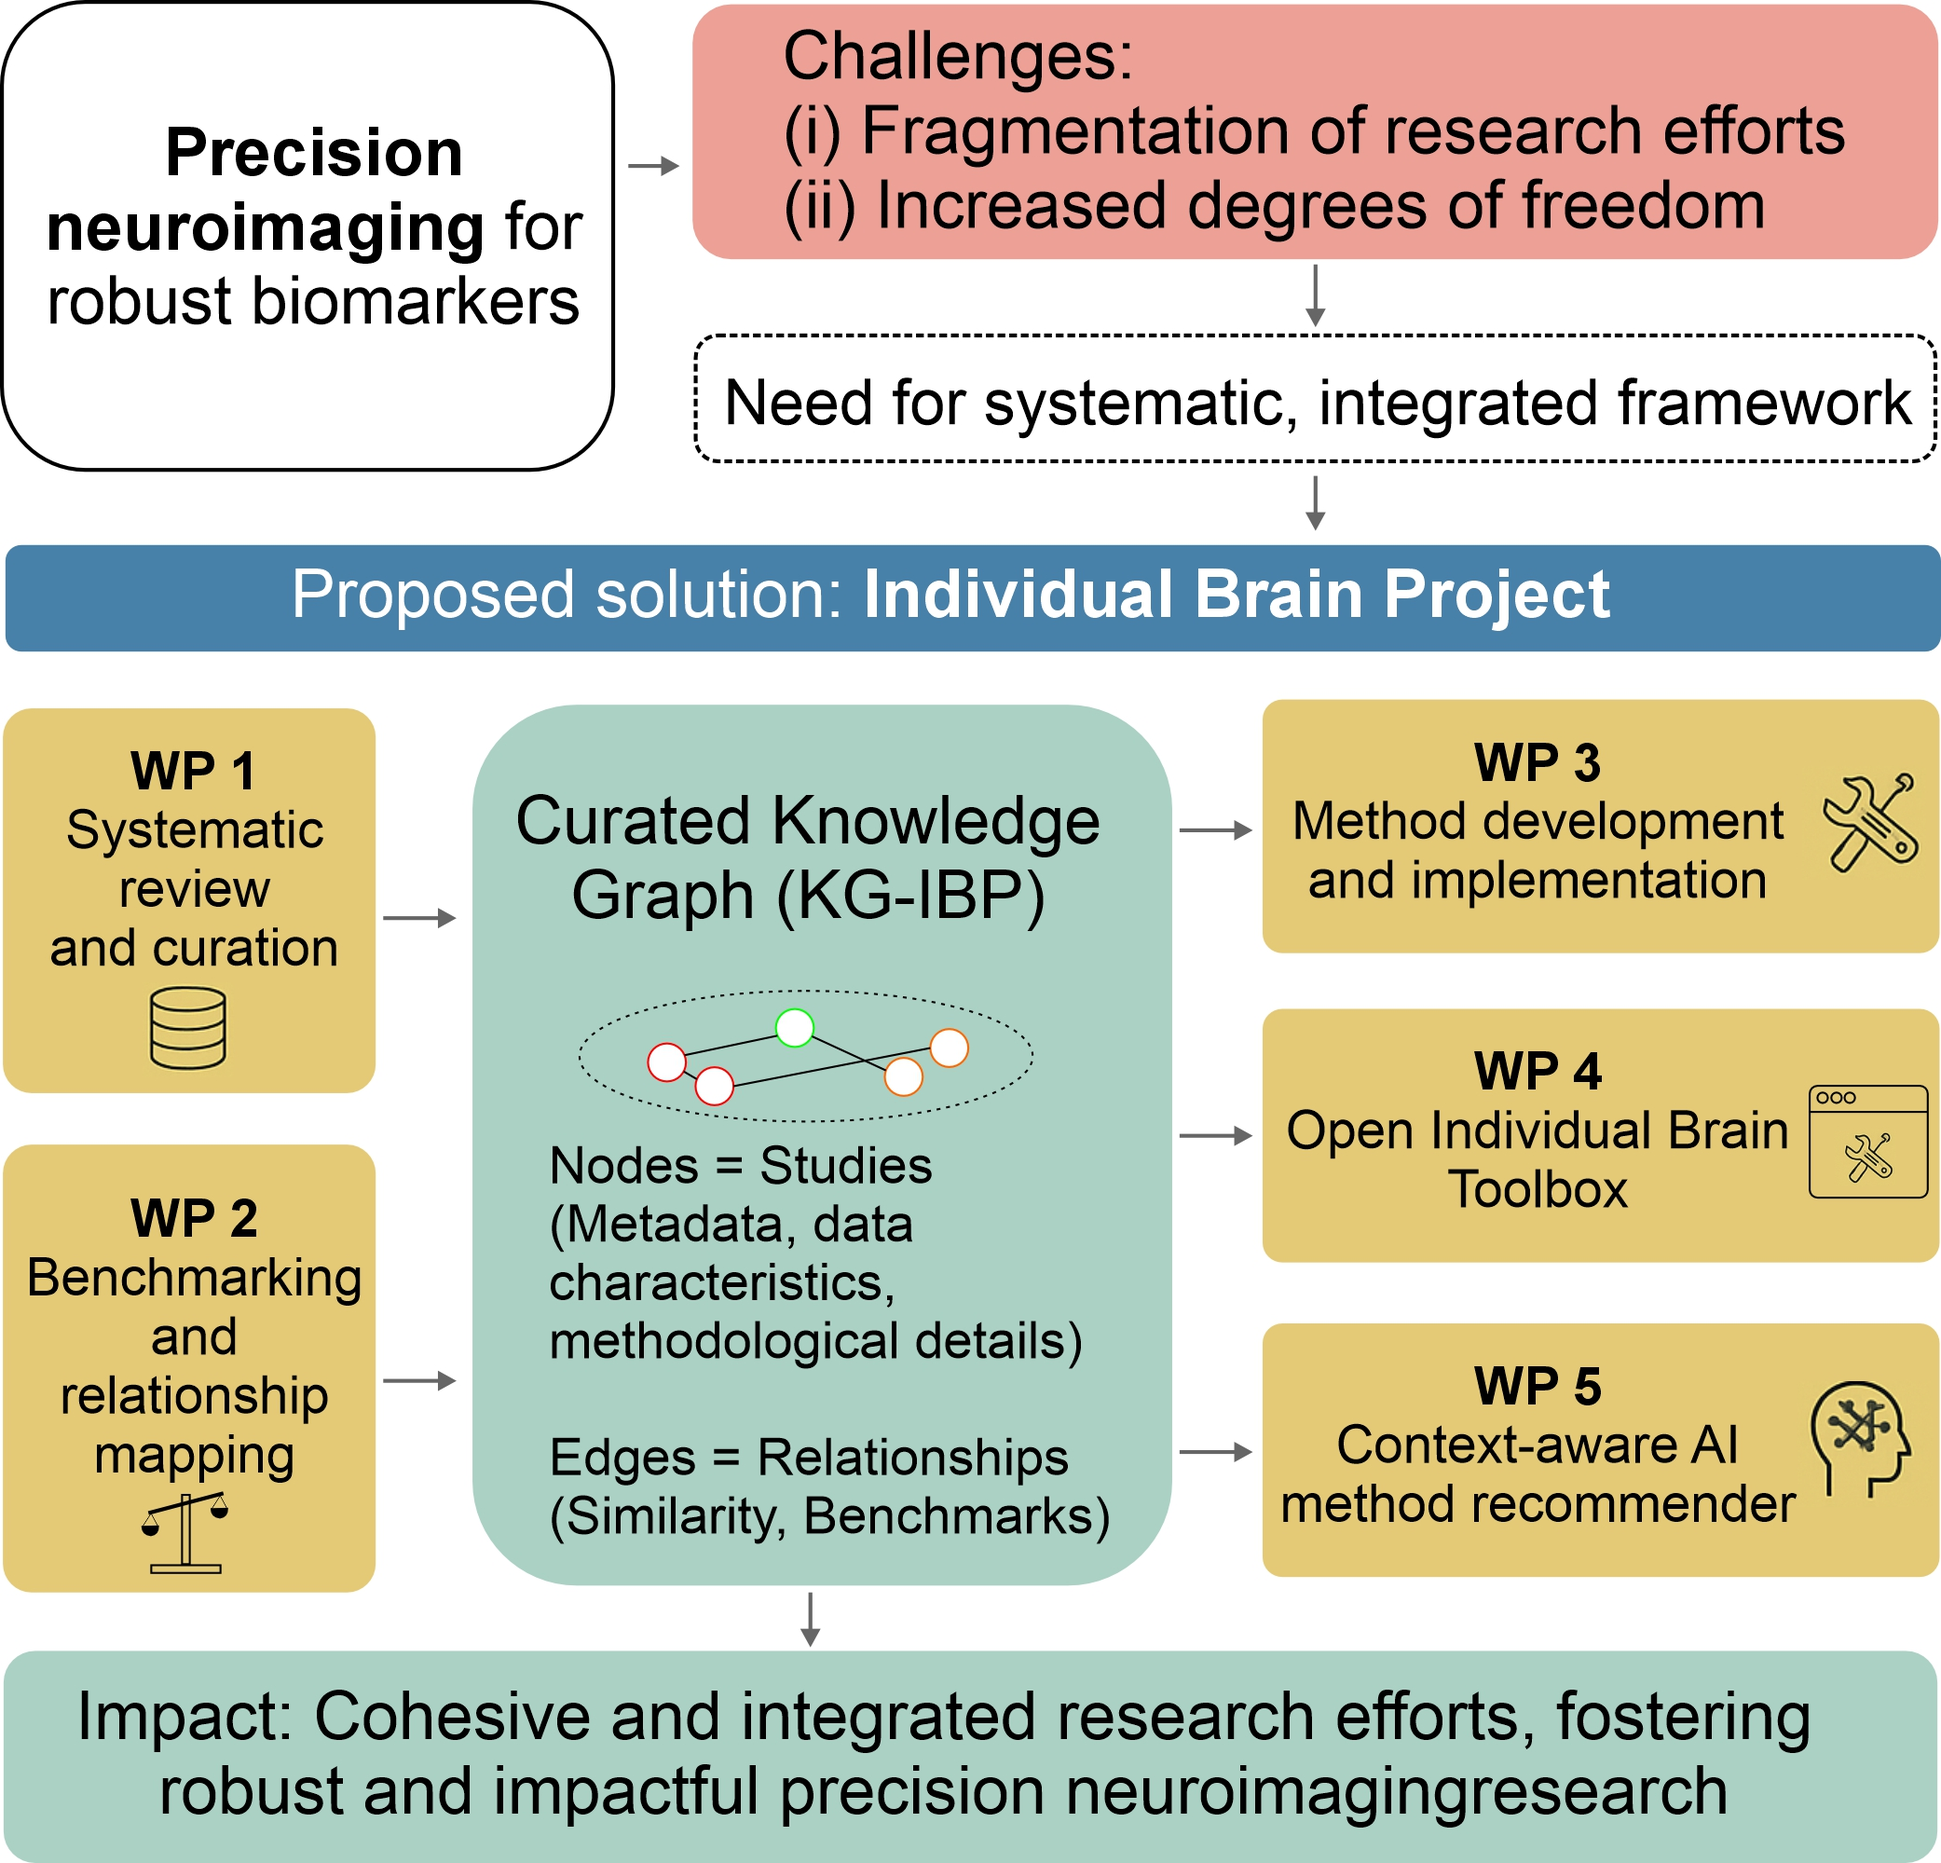
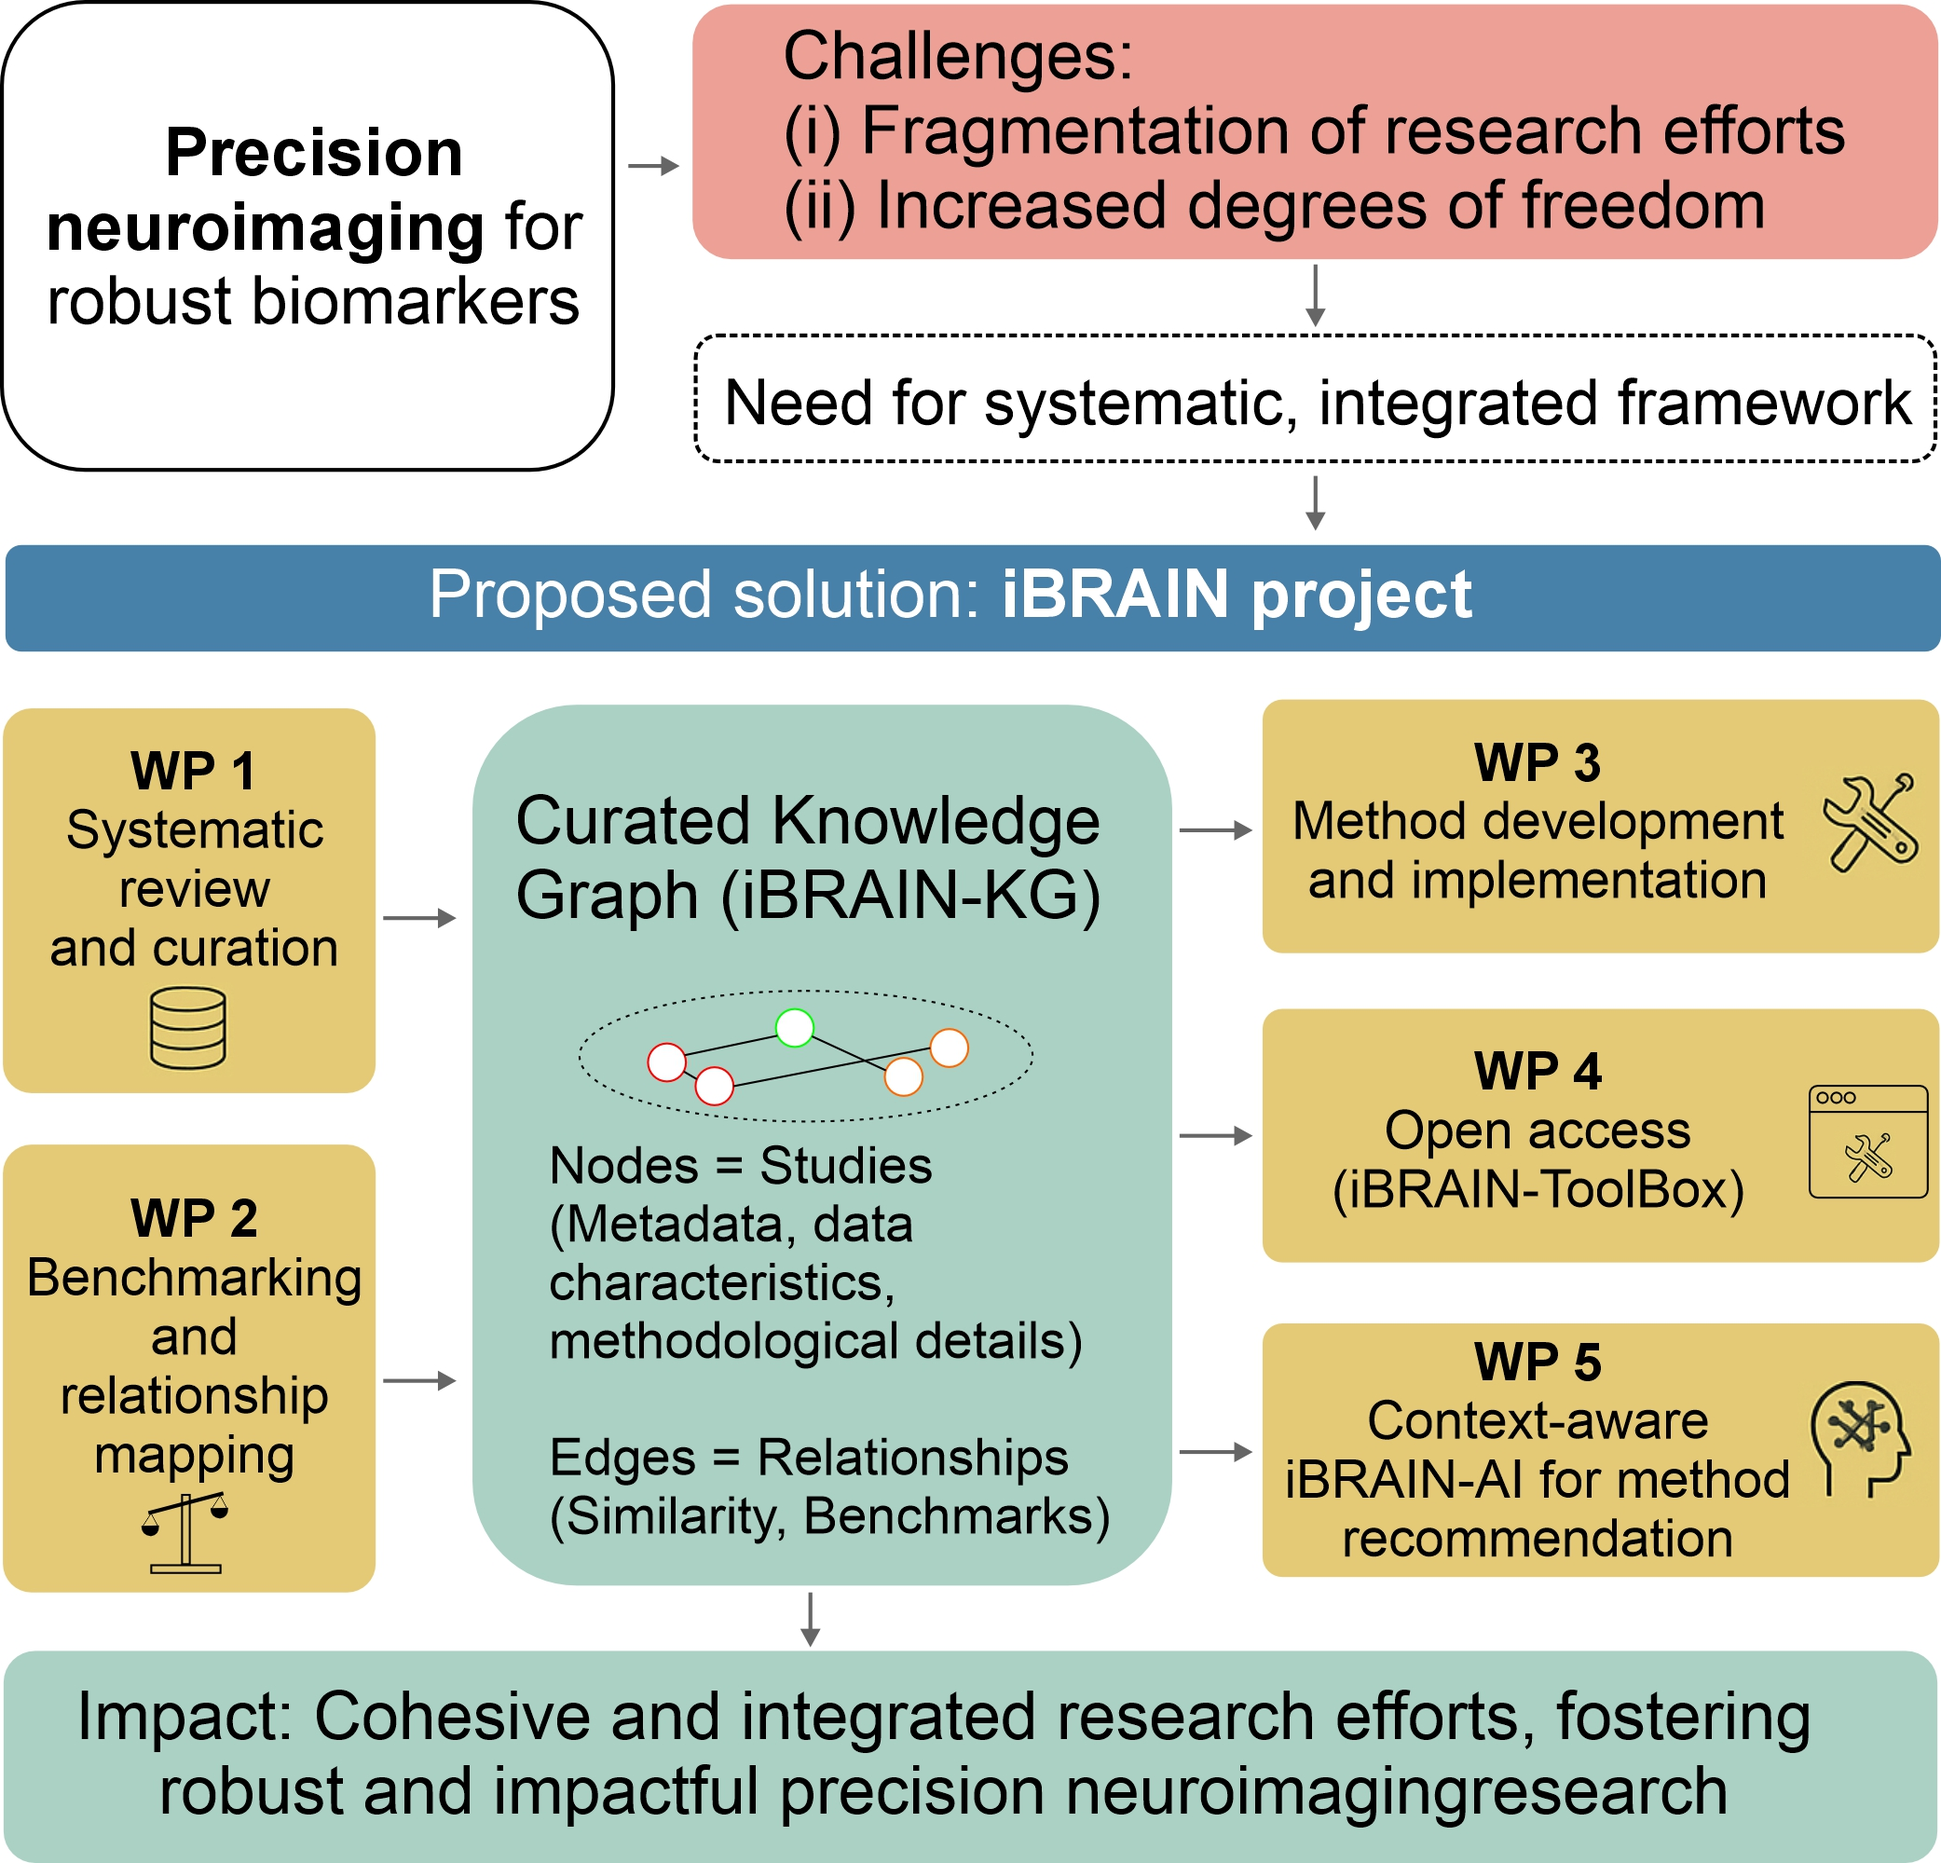
Update project name

diff --git a/IBP.html b/IBP.html
@@ -3,26 +3,48 @@
 <head>
     <title>IBP Summary - Daniel Kristanto</title>
     <style>
+        /* ... your existing styles ... */
         body { 
             font-family: sans-serif; 
-            width: 80%; /* Increased width slightly for side-by-side content */
-            max-width: 1200px; /* Added max-width for larger screens */
+            width: 80%; 
+            max-width: 1200px; 
             margin: auto; 
             padding-top: 20px;
             line-height: 1.6;
         }
-        img.framework-figure { /* Specific class for the IBP.jpg figure */
-            max-width: 100%; 
-            height: auto;
-            display: block;
-            margin: 0; /* Removed auto margin for flex alignment */
-            border: 1px solid #ccc; 
-        }
         h1, h2 {
             text-align: center;
         }
+        
+        /* Styles for the colored/emphasized letters for the acronym */
+        .acronym-letter {
+            font-weight: bold; /* Or keep normal if you only want color */
+            color: #007bff; /* A standard blue color, change as needed */
+        }
+        
+        .acronym-tag {
+            font-weight: bold;
+            color: #007bff; /* Same blue color */
+            /* If you want the wavy underline like in your image, 
+               that's harder with pure CSS and might need SVG or a background image.
+               A simpler underline or just color difference is easier.
+               For example, for a dotted underline:
+               text-decoration: underline;
+               text-decoration-style: dotted; 
+            */
+            font-style: italic; /* Optional, if you like */
+        }
+
+        /* ... rest of your styles from IBP.html ... */
+        img.framework-figure { 
+            max-width: 100%; 
+            height: auto;
+            display: block;
+            margin: 0; 
+            border: 1px solid #ccc; 
+        }
         h3 {
-            margin-top: 30px; /* Add some space above H3 */
+            margin-top: 30px; 
         }
         p {
             text-align: justify;
@@ -33,28 +55,27 @@
             margin-top: 30px;
             font-weight: bold;
         }
-        /* New styles for side-by-side layout */
         .media-container {
             display: flex;
-            flex-direction: row; /* Arrange children (video and figure) in a row */
-            justify-content: space-between; /* Distribute space between items */
-            align-items: flex-start; /* Align items to the top */
-            gap: 20px; /* Space between video and figure */
+            flex-direction: row; 
+            justify-content: space-between; 
+            align-items: flex-start; 
+            gap: 20px; 
             margin-top: 20px;
             margin-bottom: 20px;
         }
         .media-item {
-            flex-basis: 48%; /* Each item takes roughly half the space, adjust as needed */
-            display: flex; /* Use flex for centering caption under video/figure */
+            flex-basis: 48%; 
+            display: flex; 
             flex-direction: column;
-            align-items: center; /* Center caption text */
+            align-items: center; 
         }
         .media-item .video-embed-container {
-            width: 100%; /* Make the video container responsive */
+            width: 100%; 
             position: relative;
             overflow: hidden;
-            aspect-ratio: 16/9; /* Standard video aspect ratio, adjust if needed */
-            margin-bottom: 10px; /* Space between video and its caption */
+            aspect-ratio: 16/9; 
+            margin-bottom: 10px; 
         }
         .media-item .video-embed-container iframe {
             position: absolute;
@@ -77,21 +98,21 @@
 </head>
 <body>
 
-    <h1>The Individual Brain Project</h1>
-    <h2>Optimizing Individuality Approaches in Neuroimaging Research - A Knowledge Graph-Based AI Development</h2>
+    <h1>The <span class="acronym-letter">I</span>ndividual <span class="acronym-letter">B</span>rain Project</h1>
+    <h2>An <span class="acronym-letter">AI</span>-Powered Knowledge Graph for Precision <span class="acronym-letter">N</span>euroimaging - (<span class="acronym-tag">iBRAIN</span>)</h2>
 
     <hr> 
 
     <h3>Overview</h3>
     <p>
-        The Individual Brain Project is designed to address key challenges 
+        The iBRAIN project is designed to address key challenges 
         in precision neuroimaging research trend: research fragmentation and increased researcher degrees of freedom. 
-        These challenges highlight the critical need for a systematic, integrated framework, which the Individual Brain Project provides as the proposed solution.
-        At the core of the project is the development of a Curated Knowledge Graph (KG-IBP), where nodes represent detailed information 
-        about studies and methods, and edges capture rich relationships including similarities and benchmark comparisons. The KG-IBP is 
+        These challenges highlight the critical need for a systematic, integrated framework, which the iBRAIN project provides as the proposed solution.
+        At the core of the project is the development of a Curated Knowledge Graph (iBRAIN-KG), where nodes represent detailed information 
+        about studies and methods, and edges capture rich relationships including similarities and benchmark comparisons. The iBRAIN-KG is 
         meticulously built using systematic review and curation (WP1) and comparative benchmarking (WP2). This structured knowledge 
         base subsequently guides novel method development (WP3) and enables the creation of the project's key outputs: 
-        an open 'Individual Brain Toolbox' (WP4) and context-aware AI tools like method recommenders (WP5). 
+        an open access iBRAIN-ToolBox (WP4) and context-aware iBRAIN-AI for method recommendation (WP5). 
         This integrated ecosystem aims to foster cohesive research efforts and accelerate robust, impactful progress in precision neuroimaging.
     </p>
 
@@ -107,7 +128,8 @@
             </p>
         </div>
         <div class="media-item">
-            <figure style="margin:0;"> <img class="framework-figure" src="IBP.jpg" alt="Individual Brain Project Framework Diagram"> 
+            <figure style="margin:0;"> 
+                <img class="framework-figure" src="IBP.jpg" alt="Individual Brain Project Framework Diagram"> 
                 <figcaption>Conceptual overview of the Individual Brain Project.</figcaption>
             </figure>
         </div>
